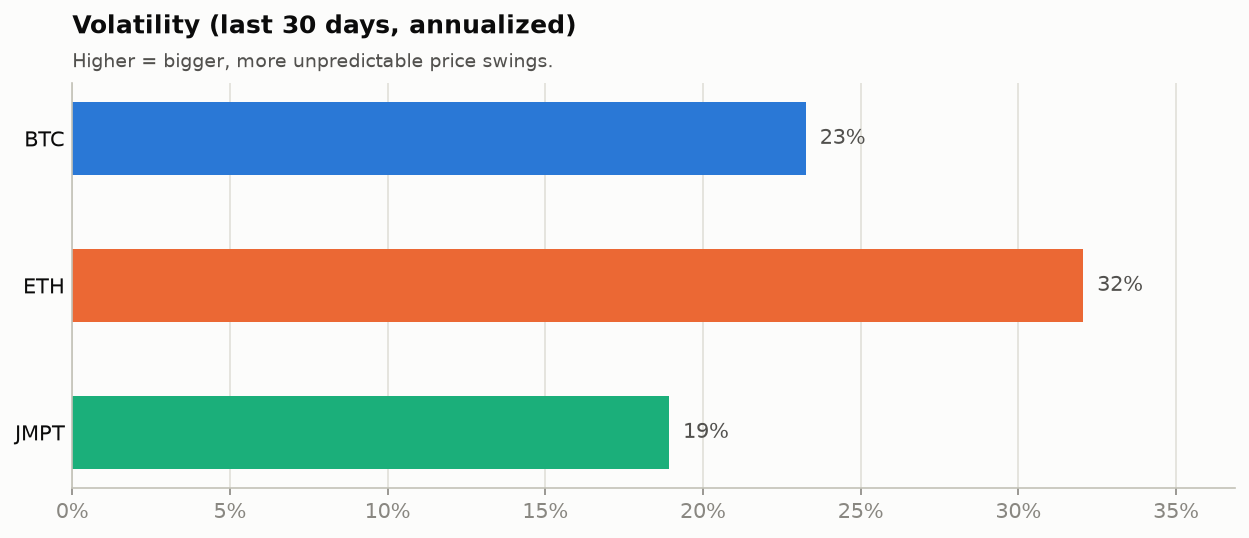
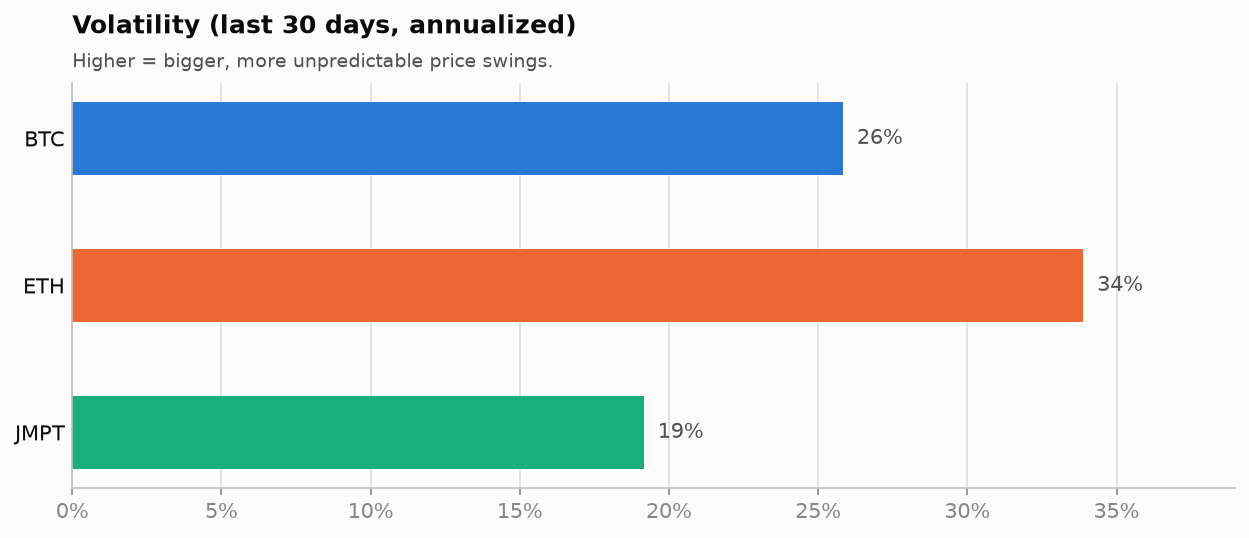
data: market update 2026-10-23

diff --git a/README.md b/README.md
@@ -9,13 +9,13 @@ The project compares two of the largest cryptocurrencies with a small-cap token:
 ## Latest stats
 
 <!-- STATS:START -->
-_Snapshot as of **2026-10-22 00:00 UTC**. Updated automatically every day._
+_Snapshot as of **2026-10-23 00:00 UTC**. Updated automatically every day._
 
 | Coin | Price | 1 day | 7 days | 30 days | 1 year | Volatility (30d) | Market cap |
 |:--|--:|--:|--:|--:|--:|--:|--:|
-| **BTC** Bitcoin | $84,082 | ▲ +1.4% | ▲ +3.0% | ▼ -2.9% | ▼ -22.4% | 23% | $1.69T |
-| **ETH** Ethereum | $2,473 | ▲ +1.1% | ▲ +2.2% | ▼ -10.9% | ▼ -36.0% | 32% | $302.04B |
-| **JMPT** JumpToken | $0.5416 | ▼ -0.0% | ▲ +0.2% | ▼ -8.6% | ▼ -43.8% | 19% | $7.99M |
+| **BTC** Bitcoin | $81,328 | ▼ -3.3% | ▼ -1.0% | ▼ -5.6% | ▼ -24.4% | 26% | $1.63T |
+| **ETH** Ethereum | $2,386 | ▼ -3.5% | ▼ -2.2% | ▼ -13.3% | ▼ -37.3% | 34% | $291.51B |
+| **JMPT** JumpToken | $0.5342 | ▼ -1.4% | ▼ -0.9% | ▼ -9.0% | ▼ -44.4% | 19% | $7.89M |
 <!-- STATS:END -->
 
 ## Charts
